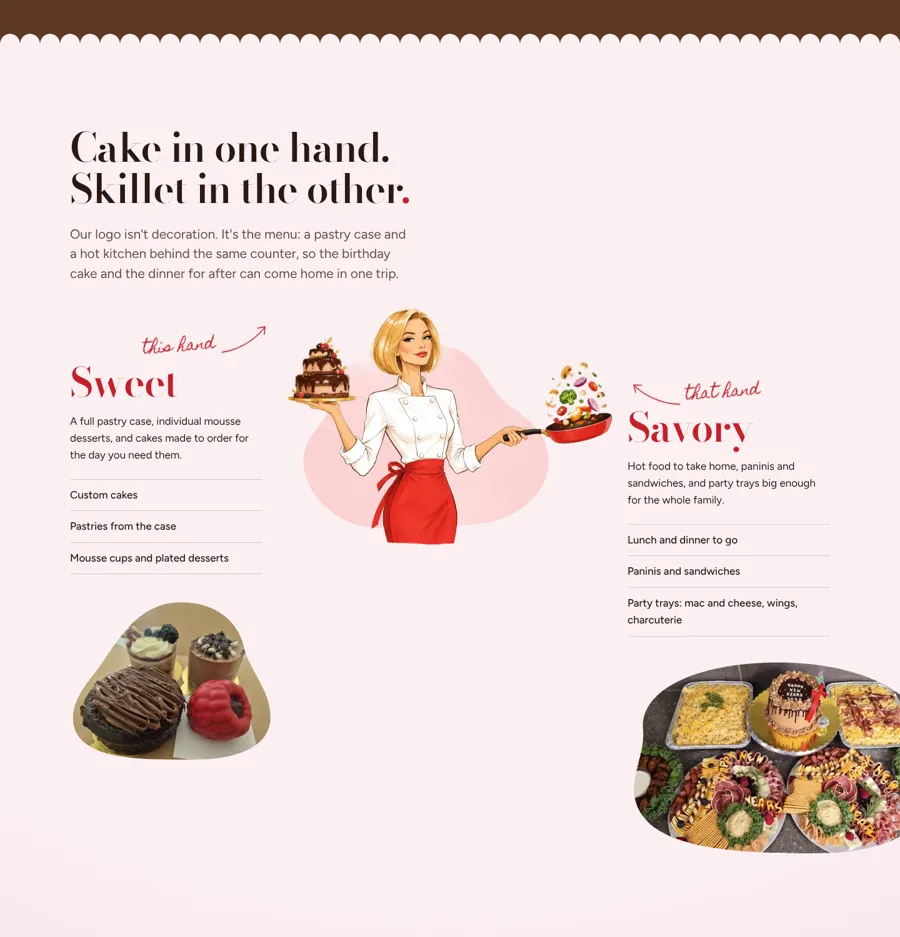
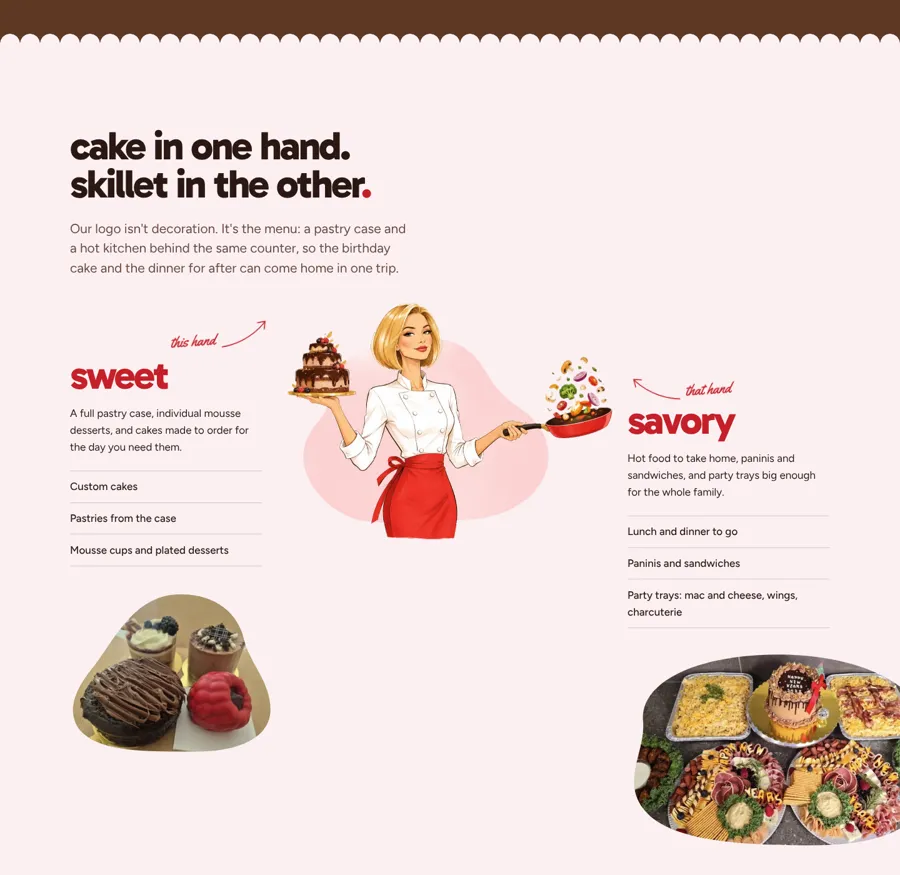
Roulé-hybrid type: bold pink script lead-in, chunky lowercase headings, black vignettes
- Hero lockup: Yellowtail brush script 'a little bit' (bigger, stroked for phones)
  into Gabarito 900 'from everywhere.', flush left; scales with phone width
- Display face: Bodoni Moda -> Gabarito 800, tight tracking, lowercase via CSS;
  brand name and body-font labels keep their case
- Handwritten notes: Homemade Apple -> Yellowtail
- Vignettes: all neutral black and subtle (--vignette-photo, --vignette-light);
  coloured walnut/rose/blush vignettes removed

Claude-Session: https://claude.ai/code/session_01424uMNrb9vNWLke91jP924

diff --git a/src/styles/global.css b/src/styles/global.css
@@ -25,10 +25,10 @@ img, video { height: auto; }
 
 h1, h2, h3 {
   font-family: var(--font-display);
-  font-weight: 600;
-  font-optical-sizing: auto; /* Bodoni Moda: true display contrast on paper */
-  line-height: 1.02;
-  letter-spacing: -0.02em;
+  font-weight: 800;
+  line-height: 0.95;
+  letter-spacing: -0.045em; /* tight, chunky, Roulé-style */
+  text-transform: lowercase; /* visual only: the source text keeps its case for screen readers */
   margin: 0;
   text-wrap: balance;
 }
@@ -81,7 +81,7 @@ ul { margin: 0; padding: 0; list-style: none; }
 /* Handwritten notes: the Showit-style annotation, used sparingly (3 on the page). */
 .hand {
   font-family: var(--font-hand);
-  font-size: 1.05rem;
+  font-size: 1.3rem;
   line-height: 1.5;
   color: var(--red);
   transform: rotate(-4deg);
@@ -128,14 +128,14 @@ ul { margin: 0; padding: 0; list-style: none; }
 /* ---------- Walnut slat wall: a texture cut from their own counter photo ----------
    The component sets --slats to the image URL (it needs the site base path).
    Text never sits on the raw slats (pink drops to 3.5:1 on the light slats):
-   the wall fades into solid walnut behind the copy, and an espresso vignette
+   the wall fades into solid walnut behind the copy, and a black vignette
    closes the edges. */
 .slats {
   --focus: var(--cream);
   --accent: var(--pink-hi);
   background-color: var(--walnut);
   background-image:
-    radial-gradient(130% 110% at 50% 45%, rgb(var(--ink-rgb) / 0) 55%, rgb(var(--ink-rgb) / 0.5) 100%),
+    radial-gradient(130% 110% at 50% 45%, rgb(0 0 0 / 0) 55%, rgb(0 0 0 / 0.42) 100%),
     linear-gradient(to bottom, rgb(var(--walnut-rgb) / 0) 0 30%, var(--walnut) 52%),
     var(--slats, none);
   background-size: 100% 100%, 100% 100%, 352px 100%;
@@ -145,7 +145,7 @@ ul { margin: 0; padding: 0; list-style: none; }
 @media (min-width: 900px) {
   .slats {
     background-image:
-      radial-gradient(120% 130% at 60% 50%, rgb(var(--ink-rgb) / 0) 55%, rgb(var(--ink-rgb) / 0.5) 100%),
+      radial-gradient(120% 130% at 60% 50%, rgb(0 0 0 / 0) 55%, rgb(0 0 0 / 0.42) 100%),
       linear-gradient(to right, rgb(var(--walnut-rgb) / 0) 0 34%, var(--walnut) 52%),
       var(--slats, none);
   }
@@ -157,10 +157,10 @@ ul { margin: 0; padding: 0; list-style: none; }
 
 /* Photo hover: barely-there feedback on fine pointers only. */
 .photo-zoom { overflow: hidden; position: relative; }
-/* Every photo gets the same soft espresso vignette, so phone snapshots read as one set. */
+/* Every photo gets the same soft black vignette, so phone snapshots read as one set. */
 .photo-zoom::after {
   content: ""; position: absolute; inset: 0; pointer-events: none;
-  background: radial-gradient(120% 100% at 50% 45%, rgb(var(--ink-rgb) / 0) 55%, rgb(var(--ink-rgb) / 0.32) 100%);
+  background: var(--vignette-photo);
 }
 .photo-zoom img { transition: transform 200ms ease; }
 @media (hover: hover) and (pointer: fine) {

diff --git a/src/styles/tokens.css b/src/styles/tokens.css
@@ -31,9 +31,9 @@
   --line: rgb(var(--ink-rgb) / 0.18);        /* hairlines on paper */
   --line-strong: rgb(var(--ink-rgb) / 0.38); /* control borders on paper */
 
-  --font-display: "Bodoni Moda", "Didot", "Georgia", serif;
+  --font-display: "Gabarito", "Arial Black", system-ui, sans-serif;
   --font-body: "Figtree", system-ui, sans-serif;
-  --font-hand: "Homemade Apple", "Segoe Script", cursive;
+  --font-hand: "Yellowtail", "Segoe Script", cursive;
 
   /* Type scale: 1.25 ratio on a 17px body */
   --step--1: 0.875rem;
@@ -63,7 +63,10 @@
   /* One elevation: offset, soft, ink-tinted. */
   --shadow-lift: 0 24px 48px -24px rgb(var(--ink-rgb) / 0.55);
   /* Type over photography: a tight contact shadow plus a wide soft one. */
-  --shadow-text: 0 1px 2px rgb(var(--ink-rgb) / 0.35), 0 10px 40px rgb(var(--ink-rgb) / 0.55);
+  --shadow-text: 0 1px 2px rgb(0 0 0 / 0.3), 0 10px 40px rgb(0 0 0 / 0.5);
+  /* Vignettes are neutral black and subtle everywhere: they frame, they don't tint. */
+  --vignette-photo: radial-gradient(120% 100% at 50% 45%, rgb(0 0 0 / 0) 55%, rgb(0 0 0 / 0.3) 100%);
+  --vignette-light: radial-gradient(140% 100% at 50% 45%, rgb(0 0 0 / 0) 60%, rgb(0 0 0 / 0.07) 100%);
 
   /* Motion (from the animate skill's tables, not hand-rolled) */
   --ease-out: cubic-bezier(0.23, 1, 0.32, 1);

diff --git a/DESIGN.md b/DESIGN.md
@@ -38,16 +38,19 @@ so pink is the only highlight.
 
 ## Type
 
-- **Bodoni Moda** for display. Section headings use automatic optical sizing for true
-  Didone contrast on paper. The hero tagline is a lockup: the handwritten "a little bit" in
-  `--pink-hi` (Homemade Apple, tilted -6°) signs into an indented "from", over "everywhere"
-  and a pink full stop. The hero sets Bodoni at 700 with the optical size pinned to 32, not
-  the ~96 it would auto-pick, so the hairlines are thick enough to survive moving video.
-  `--shadow-text` lifts it off the photo. Tried and rejected: Gloock (bland), Fraunces Soft
-  (good but heavy) and Fraunces italic (flagged as the stock AI hero).
+- **Gabarito** (800–900) for display: chunky, tightly tracked (-0.045em), and lowercase
+  via CSS (source text keeps its case for screen readers). The Roulé reference supplied this
+  register. The brand name "ChrisRia" keeps its capitals. Small body-font labels never go
+  lowercase, so proper nouns like "Young Rd" stay correct.
+- **The hero lockup** is the hybrid: the pink **Yellowtail** brush script "a little bit"
+  (tilted -7°, at least 2.3rem, a 0.6px stroke so it holds up on phones) leads into "from /
+  everywhere." in Gabarito 900, flush left, with a pink full stop. On phones the size scales
+  with the screen (`clamp(3.4rem, 15.5vw, 6rem)`) so "everywhere." fills the column.
+  Tried and rejected along the way: Gloock (bland), Fraunces Soft (heavy), Fraunces italic
+  (the stock AI hero) and Bodoni Moda (it read "off" to the client).
 - **Figtree** for body and UI: round, friendly, legible at 16–17px.
-- **Homemade Apple**: the hero lead-in and handwritten notes, no more than four uses on the page. The font name
-  matches the brand's "homemade" voice.
+- **Yellowtail**: the hero lead-in and the handwritten notes ("this hand", "that hand", the
+  cake caption). Bold enough to read over photos, unlike the thinner Homemade Apple it replaced.
 
 Scale is 1.25 from a 17px body (`--step--1` … `--step-5`).
 
@@ -60,10 +63,10 @@ Scale is 1.25 from a 17px body (`--step--1` … `--step-5`).
 - **The plate**: a circular photo with a cream rim (Grainhaus).
 - Two radii only: `--radius-pill` for small controls, `--radius-soft` (14px) for every rounded rectangle (form panel, fields, message bubble, storefront photo, reveal clip). Circles (plate, stamp, step numbers) are shapes.
 - One elevation: `--shadow-lift`, used by the plate and the desktop order pill.
-- **Vignettes** close every frame softly. Espresso on photos (`.photo-zoom::after`,
-  the grazing photo), the hero (in the scrim) and the walnut wall. A warm walnut glow from above
-  on the espresso grazing section. Blush pink at the edges of the paper section, and a deeper
-  rose (`--rose-rgb`) on the pink cakes section, where ink stays at 8.5:1 even in the corners.
+- **Vignettes** are subtle and neutral black, never tinted: `--vignette-photo` (30% at the
+  corners) on every photo and the grazing table, deeper on the hero scrim and the walnut wall,
+  and `--vignette-light` (7%) on the paper and pink sections, which frames them without muddying
+  the colour.
 - Translucent ink only through `--ink-rgb`, `--line` and `--line-strong`. No raw hex in components.
 
 ## Motion
